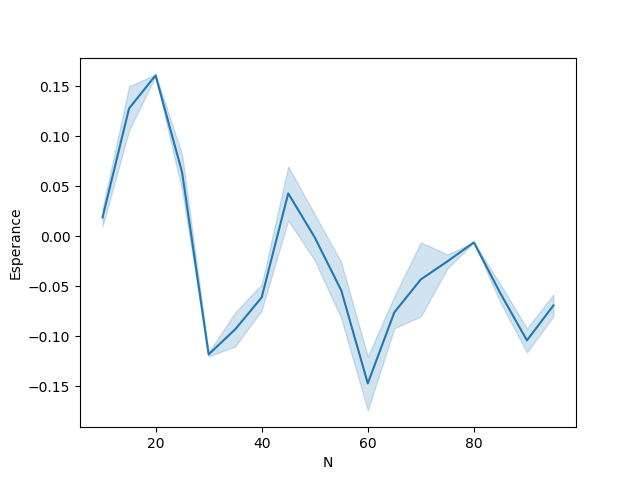
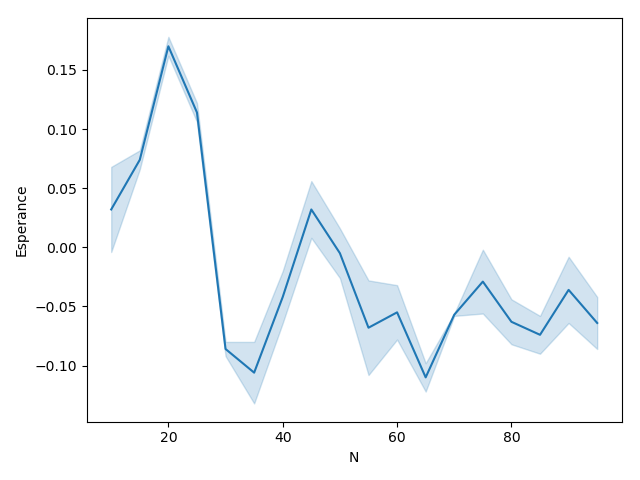
tables_simu

diff --git a/statEsperance.py b/statEsperance.py
@@ -1,3 +1,4 @@
+from gurobi_optimisation import strat_opt_simu
 from jeu import *
 import numpy as np
 import pandas as pd
@@ -43,3 +44,42 @@ def gameResN(strat1,strat2,Nmin,Nmax,D):
     a.get_figure().savefig("img/aveugle_optimale.png")
 
 gameResN(strat["aveugle"],strat["optimale"],10,100,10)
+
+def gameResN_simu(V1,V2,Dmin,Dmax,nb_parties):
+
+    resultats = {}
+    resultats["D"] = []
+    resultats["1"] = []
+    resultats["2"] = []
+
+    print("start")
+
+    for D in range(Dmin, Dmax, 1):
+        print(D)
+        result1 = simulation_simul(nb_parties, D, V1, V2)
+        result2 = simulation_simul(nb_parties, D, V2, V1)
+        resultats["D"].append(D)
+        resultats["1"].append((result1[0] / nb_parties) - (result1[1] / nb_parties))
+        resultats["2"].append((result2[0] / nb_parties) - (result2[1] / nb_parties))
+
+    r=pd.DataFrame()
+    r['D']=resultats['D']
+    r["1"]=resultats["1"]
+    r["2"]=resultats["2"]
+
+    r = pd.melt(r, id_vars=['D'], value_vars=['1','2'],
+          var_name='groupe', value_name='Esperance')
+
+    a = sns.lineplot(x=r["D"],y=r["Esperance"],
+                 palette=sns.color_palette("pastel", 2))
+
+    plt.show()
+
+    a.get_figure().savefig("img/aveugle_optimale_simu.png")
+
+
+V1 = strat_opt_simu(D)
+V2 = np.zeros(D)
+V2[6]=1
+
+#gameResN_simu(V1,V2, 1, 15, 100000)

diff --git a/jeu.py b/jeu.py
@@ -108,3 +108,27 @@ def main_for_meta_loopSeq(player1, player2, M, D, Eg_table_which_play_p1,
             return -1
 
 # start_game(100, 10)
+
+def simulation_simul(nb_parties, D, V1, V2):
+    win = 0
+    loose = 0
+    null = 0
+    dice_lance = np.zeros(D)
+    dice_lance2 = np.zeros(D)
+    for i in range(nb_parties):
+        Vc1 = np.cumsum(V1)
+        d1 = np.where(Vc1 > np.random.rand(1)[0])[0][0] + 1
+
+        Vc2 = np.cumsum(V2)
+        d2 = np.where(Vc2 > np.random.rand(1)[0])[0][0] + 1
+
+        lance_d1 = dice(d1)
+        lance_d2 = dice(d2)
+
+        if lance_d1 > lance_d2:
+            win += 1
+        if lance_d1 == lance_d2:
+            null += 1
+        if lance_d1 < lance_d2:
+            loose += 1
+    return win, loose, null

diff --git a/simultane.py b/simultane.py
@@ -23,6 +23,6 @@ def EGmat(D):
     ptable = p_table(D)
     for d1 in range(D + 1):
         for d2 in range(D + 1):
-            mat[d1, d2] = EGsimuL(d1, d2,ptable)
+            mat[d1, d2] = EGsimu(d1, d2,ptable)
 
     return mat[1:,1:]
